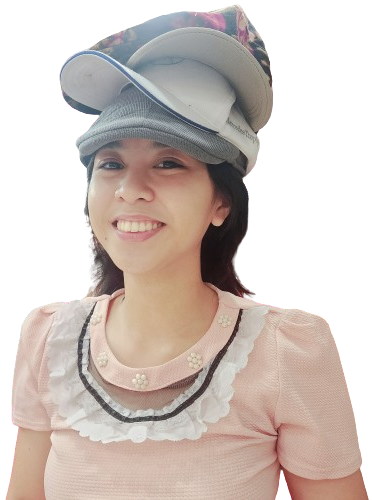
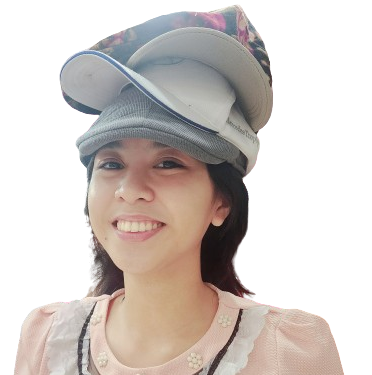
center center

diff --git a/index.html b/index.html
@@ -49,14 +49,18 @@
 
             .image-stack 
             {
+                width: 50px; /* Adjust as needed */
+                height: 50px; /* Adjust as needed */
                 position: relative;
+                margin: 0 auto; /* Center horizontally */
             }
 
             .image-stack img 
             {
                 position: absolute;
-                top: 0;
-                left: 0;
+                top: 50%;
+                left: 50%;
+                transform: translate(-50%, -50%);
                 width: 100%;
                 height: 100%;
                 object-fit: cover; /* Maintain aspect ratio */
